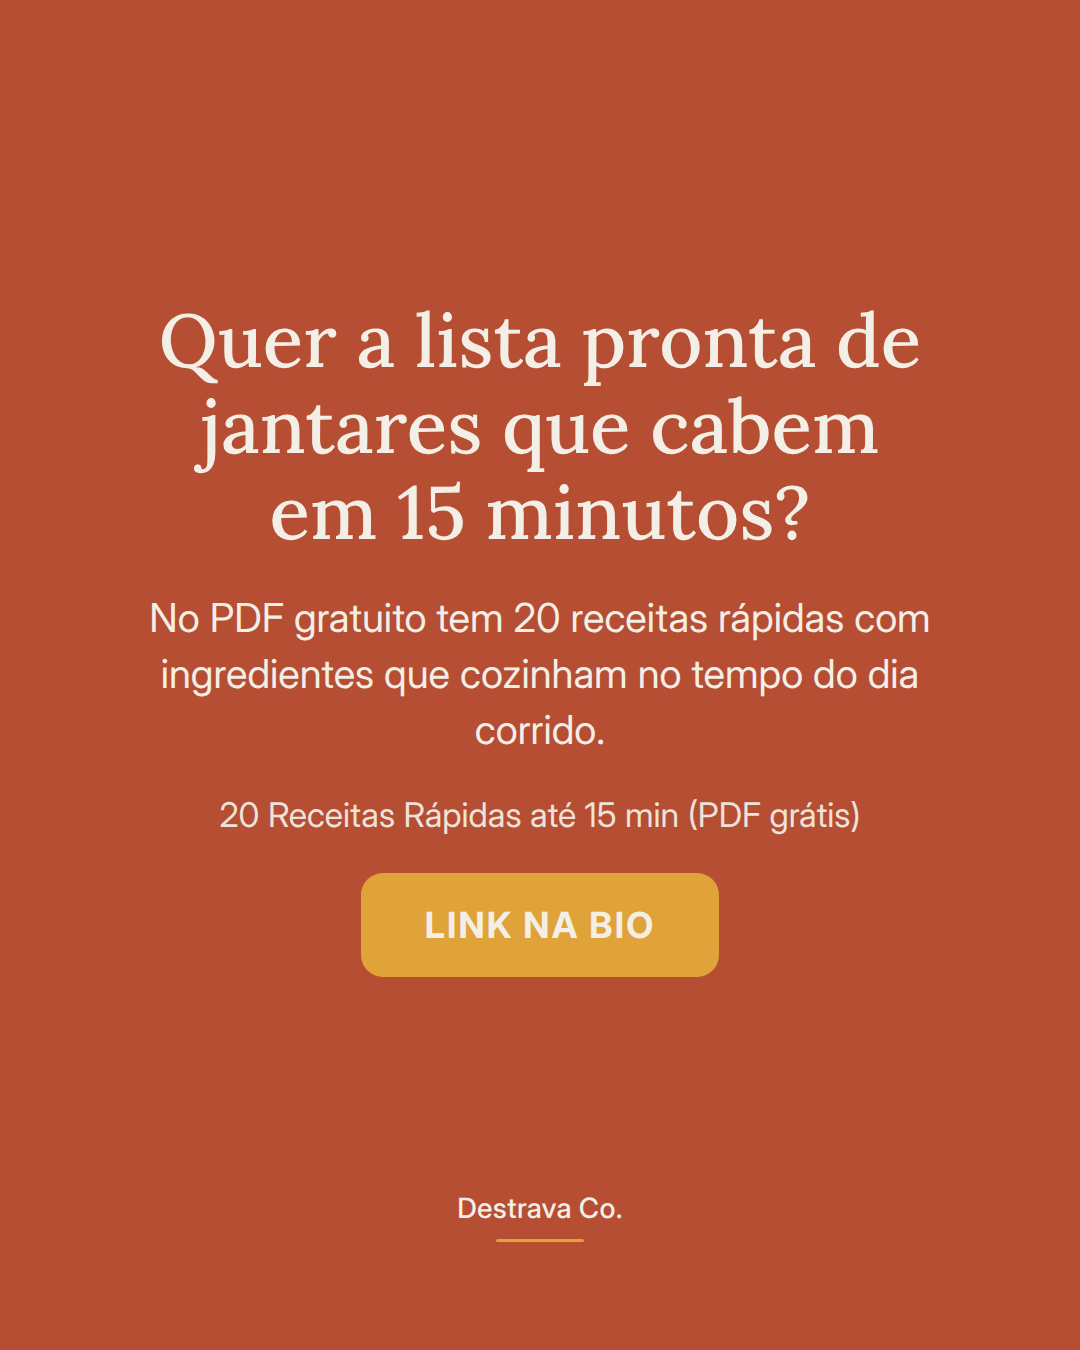
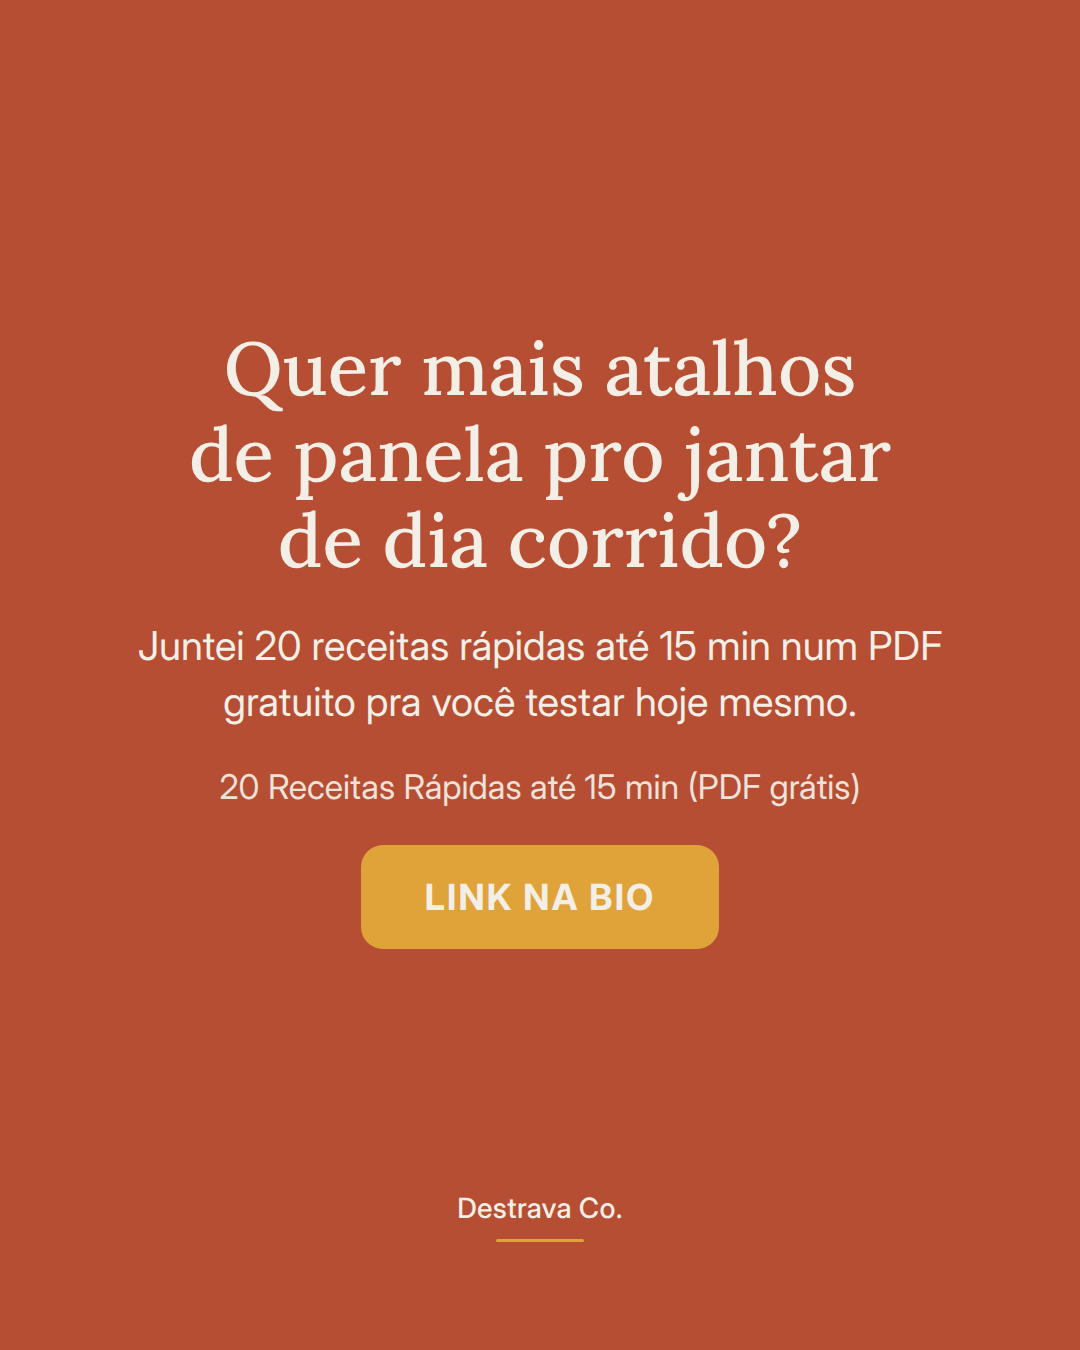
content: peças Instagram 2026_10_02

Changed region(s): [[0.1222, 0.2178, 0.8861, 0.7467]]

diff --git a/public/content/2026_10_02/index.html b/public/content/2026_10_02/index.html
@@ -19,24 +19,24 @@
 </head>
 <body>
 <h1>Cozinha · capa B (wash2)</h1>
-<div class="meta">2026-10-02 · gerado em 2026-10-02T10:03:50 · sticker sugerido nos Stories: quiz</div>
+<div class="meta">2026-10-02 · gerado em 2026-10-02T14:42:13 · sticker sugerido nos Stories: quiz</div>
 <h2>Carrossel</h2>
-<div class="strip"><img src="2026_10_02_-_Carrossel_Cozinha_01.png" alt="Foto de uma frigideira com grão de bico, tomate e legumes sobre fundo claro, com o título dizendo que o jantar demora pelo ingrediente." title="2026_10_02_-_Carrossel_Cozinha_01.png"><img src="2026_10_02_-_Carrossel_Cozinha_02.png" alt="Lâmina de fundo bem claro explicando que o tempo do jantar depende do ingrediente escolhido." title="2026_10_02_-_Carrossel_Cozinha_02.png"><img src="2026_10_02_-_Carrossel_Cozinha_03.png" alt="Lâmina de fundo bem claro com três trocas de ingredientes lentos por versões rápidas." title="2026_10_02_-_Carrossel_Cozinha_03.png"><img src="2026_10_02_-_Carrossel_Cozinha_04.png" alt="Lâmina de fundo bem claro dizendo que o tempero continua o mesmo quando se troca o ingrediente principal." title="2026_10_02_-_Carrossel_Cozinha_04.png"><img src="2026_10_02_-_Carrossel_Cozinha_05.png" alt="Lâmina de fundo verde profundo com texto creme convidando a baixar o PDF gratuito e botão em destaque." title="2026_10_02_-_Carrossel_Cozinha_05.png"></div>
+<div class="strip"><img src="2026_10_02_-_Carrossel_Cozinha_01.png" alt="Fundo wash2 da linha Cozinha com foto de frigideira tampada e título em campo escrito que a tampa da panela é o atalho que ninguém usa." title="2026_10_02_-_Carrossel_Cozinha_01.png"><img src="2026_10_02_-_Carrossel_Cozinha_02.png" alt="Fundo wash1 bem claro com título no campo profundo explicando que o vapor preso pela tampa cozinha o alimento dos dois lados." title="2026_10_02_-_Carrossel_Cozinha_02.png"><img src="2026_10_02_-_Carrossel_Cozinha_03.png" alt="Fundo wash1 bem claro com título no campo profundo e lista de três momentos de usar e tirar a tampa." title="2026_10_02_-_Carrossel_Cozinha_03.png"><img src="2026_10_02_-_Carrossel_Cozinha_04.png" alt="Fundo wash1 bem claro com título no campo profundo descrevendo um jantar de frango feito com tampa em dez minutos." title="2026_10_02_-_Carrossel_Cozinha_04.png"><img src="2026_10_02_-_Carrossel_Cozinha_05.png" alt="Fundo campo profundo com texto creme convidando a baixar o PDF gratuito de 20 receitas rápidas e botão no tom de acento." title="2026_10_02_-_Carrossel_Cozinha_05.png"></div>
 <h2>Stories</h2>
-<div class="strip"><img class="story" src="2026_10_02_-_Stories_Cozinha_01.png" alt="Stories de fundo verde claro com título sobre o ingrediente que decide o tempo do jantar e convite para ver o feed." title="2026_10_02_-_Stories_Cozinha_01.png"><img class="story" src="2026_10_02_-_Stories_Cozinha_02.png" alt="Stories em fundo terracota com convite ao e-book gratuito de 20 receitas rápidas e o endereço da página em destaque no chip mostarda." title="2026_10_02_-_Stories_Cozinha_02.png"></div>
+<div class="strip"><img class="story" src="2026_10_02_-_Stories_Cozinha_01.png" alt="Fundo wash2 da linha Cozinha com kicker novo no feed e título sobre a tampa da panela como atalho." title="2026_10_02_-_Stories_Cozinha_01.png"><img class="story" src="2026_10_02_-_Stories_Cozinha_02.png" alt="Stories em fundo terracota com convite ao e-book gratuito de 20 receitas rápidas e o endereço da página em destaque no chip mostarda." title="2026_10_02_-_Stories_Cozinha_02.png"></div>
 <div class="meta">1º · stories post do dia · <a href="2026_10_02_-_Stories_Cozinha_01.png" download="2026_10_02_-_Stories_Cozinha_01.png">⬇ baixar</a> · sticker de link → post do dia (permalink em publicado.json depois de publicar) · sticker extra sugerido: quiz</div><div class="meta">2º · stories oferta · <a href="2026_10_02_-_Stories_Cozinha_02.png" download="2026_10_02_-_Stories_Cozinha_02.png">⬇ baixar</a> · sticker de link → <a href="https://lp.destravaco.com.br/receitas-15min">https://lp.destravaco.com.br/receitas-15min</a></div>
 <div class="meta">Stories não vão pela API: baixe e poste no app colando o sticker de link.</div>
 <h2>Legenda</h2>
-<pre>Jantar rápido começa na escolha do ingrediente, não na pressa.
+<pre>Tampa na panela é o atalho mais barato pra encurtar o jantar.
 
-Receita rápida de verdade quase sempre é a mesma receita de sempre com um ingrediente que cozinha em menos tempo. Grão de bico de lata no lugar do feijão seco. Filé de peixe ou ovo no lugar do corte que pede panela longa. Massa fininha no lugar da grossa.
+Cozinha prática é isso: o vapor fica preso, o calor circula por cima e por baixo, e o que levava quinze minutos fica pronto em oito. Dá pra abaixar o fogo e ainda ganhar tempo.
 
-O tempero não muda. O refogado é o mesmo, o cheiro é o mesmo, o prato continua comida de verdade. O que muda é quanto tempo você fica de pé esperando.
+A ordem que funciona aqui em casa: tampa fechada no começo, com um fio de água, pra cozinhar por dentro. Nos últimos minutos, tampa fora, pra secar o líquido e dourar.
 
-No dia corrido, olhar a despensa com essa pergunta ajuda: o que aqui já está pronto pela metade?
+Frango em cubos, legume picado, grão cozido: todos aceitam esse mesmo caminho. Você muda o tempero e muda o jantar.
 
-Salva pra lembrar na hora das compras e manda pra quem chega em casa sem ideia de jantar. Se quiser as receitas já montadas nesse raciocínio, o PDF com 20 receitas de até 15 minutos é gratuito.
+Salva pra testar no próximo dia corrido e manda pra quem vive dizendo que não tem tempo de cozinhar. Se quiser o passo a passo pronto, o PDF gratuito com 20 receitas rápidas até 15 min te espera.
 
-<span class="tags">#receitasrapidas #jantarpratico #cozinhapratica #comidadeverdade #receitasfaceis</span></pre>
+<span class="tags">#cozinhapratica #receitasrapidas #jantarpratico #praticidadenacozinha #comidadeverdade</span></pre>
 </body>
 </html>
